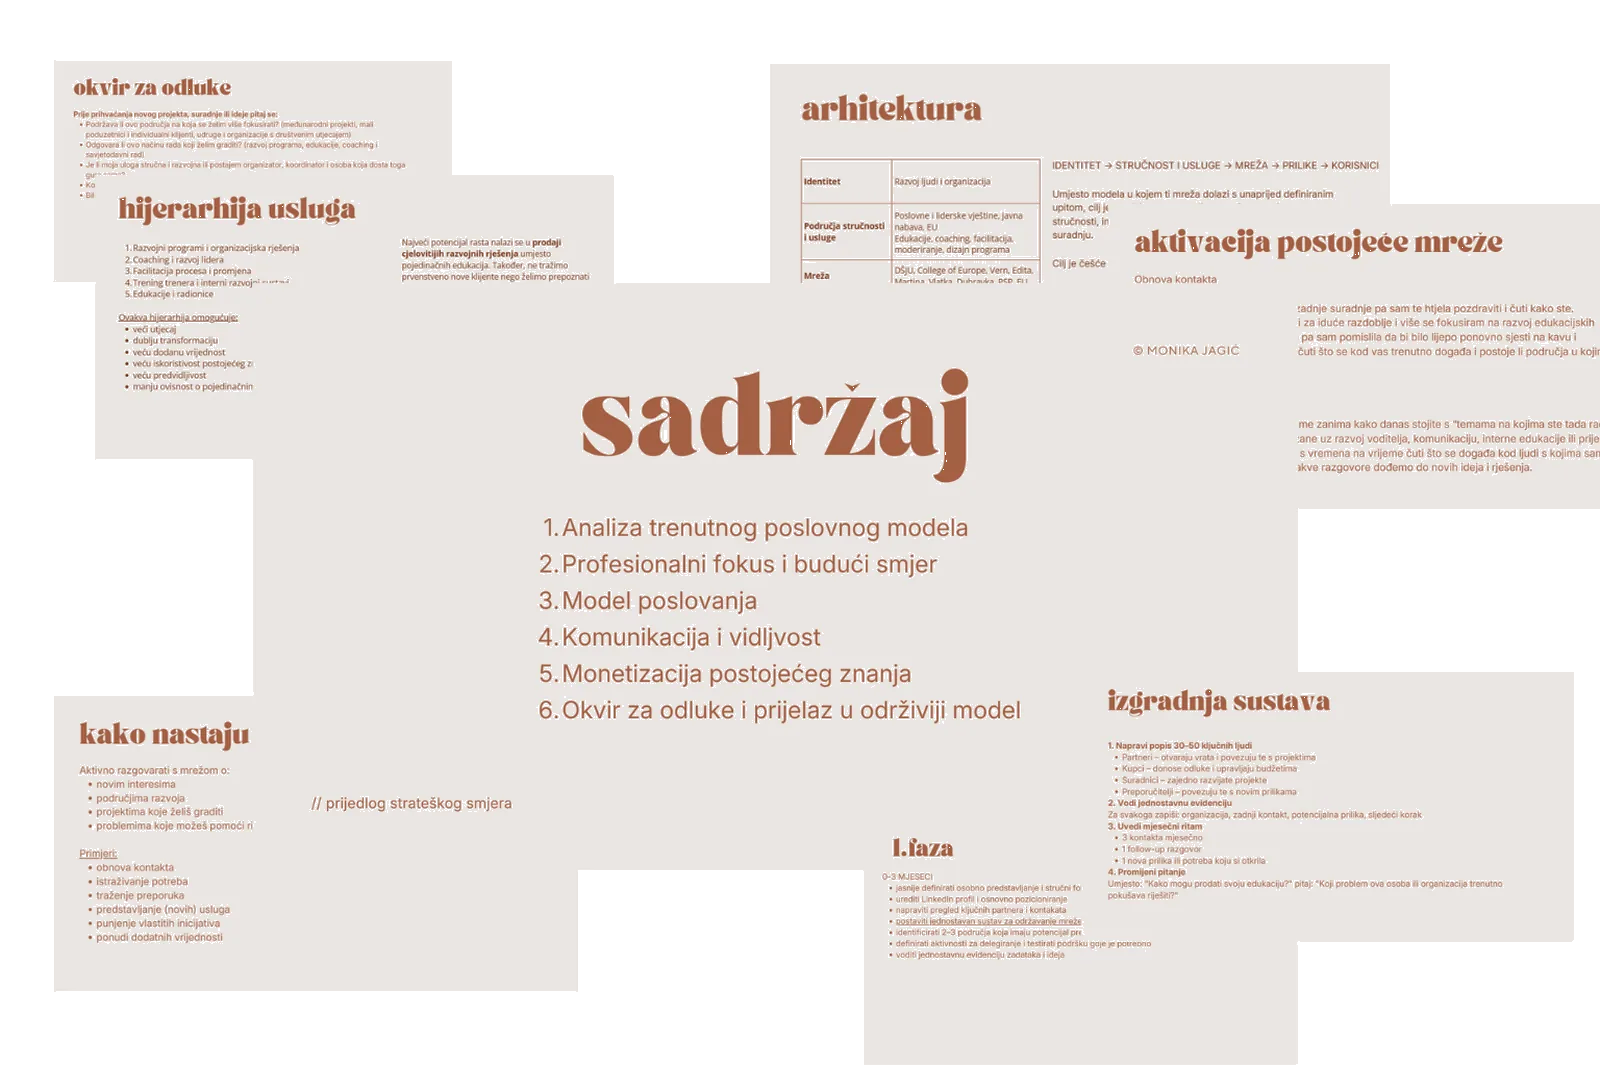
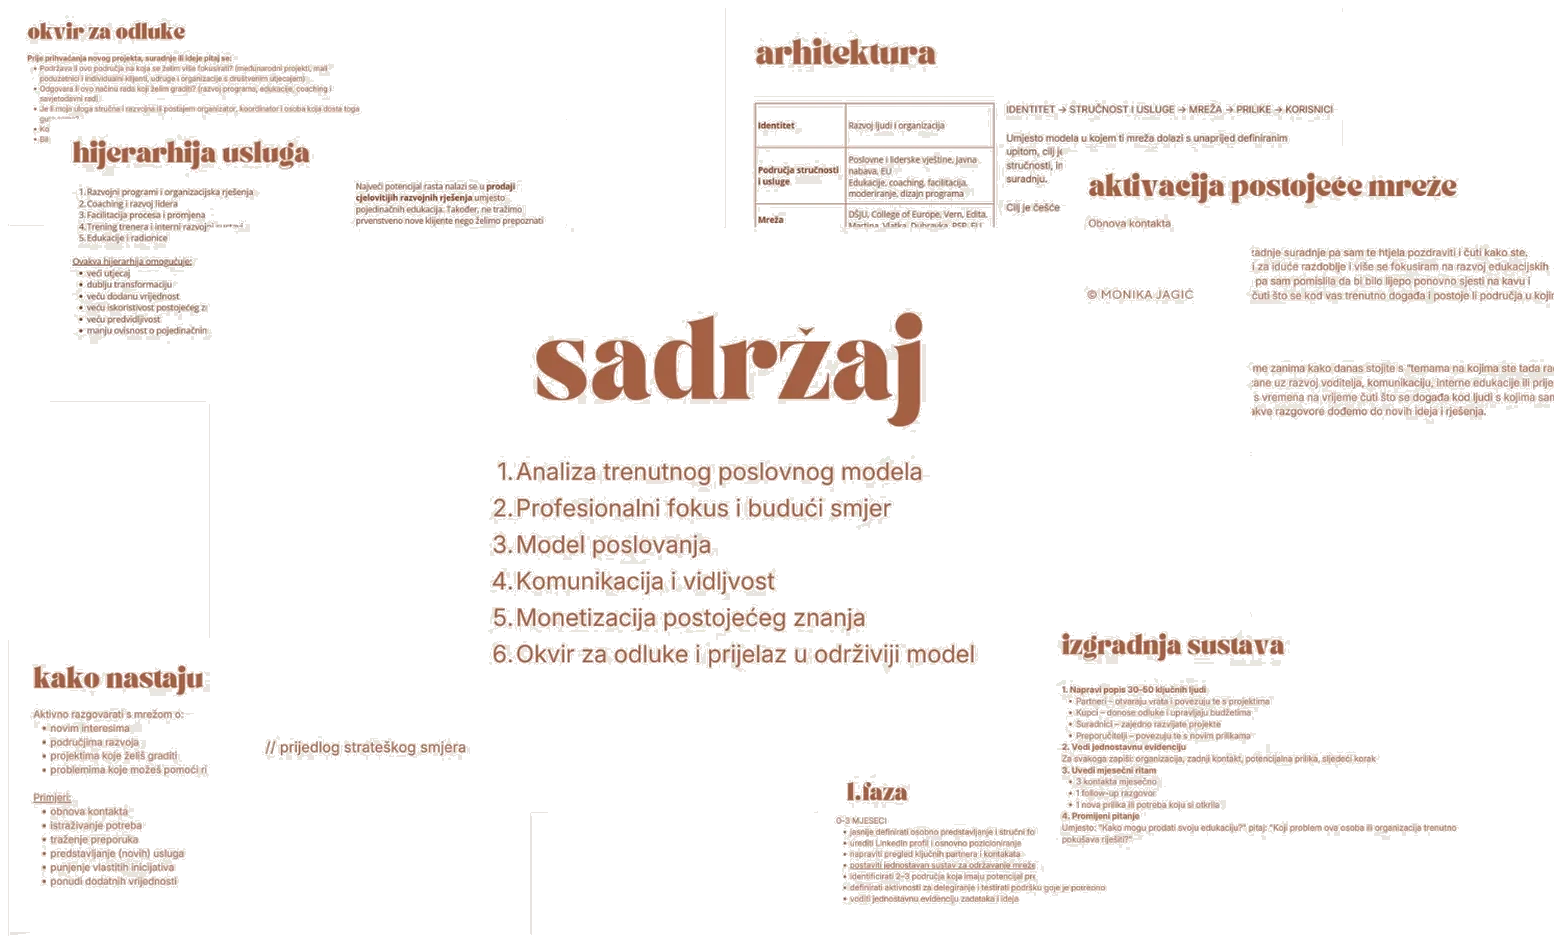
Tighten desktop hero crop and use true transparent collage.
Re-crop the desktop hero so the crown sits at the top edge under the
nav, and replace the strategy collage with the stash transparent cutout
(no cream plate) while keeping it flat and body-centered.

diff --git a/biznis-okvir/index.html b/biznis-okvir/index.html
@@ -27,7 +27,7 @@
       href="https://fonts.googleapis.com/css2?family=Inter:wght@400;500;600&display=swap"
       rel="stylesheet"
     />
-    <link rel="stylesheet" href="../css/main.css?v=bo-hero-fixes-1" />
+    <link rel="stylesheet" href="../css/main.css?v=bo-hero-fixes-2" />
     <script>
       document.documentElement.classList.add("js");
     </script>
@@ -252,18 +252,18 @@
                 <figure class="process__doc process__doc--collage">
                   <picture>
                     <source
-                      srcset="../assets/images/bo-strategy-collage.webp?v=nobg-2"
+                      srcset="../assets/images/bo-strategy-collage.webp?v=nobg-3"
                       type="image/webp"
                     />
                     <source
-                      srcset="../assets/images/bo-strategy-collage.png?v=nobg-2"
+                      srcset="../assets/images/bo-strategy-collage.png?v=nobg-3"
                       type="image/png"
                     />
                     <img
-                      src="../assets/images/bo-strategy-collage.png?v=nobg-2"
+                      src="../assets/images/bo-strategy-collage.png?v=nobg-3"
                       alt="Kolaž stranica iz strateškog dokumenta Biznis okvira — sadržaj, okvir za odluke, hijerarhija usluga, arhitektura i plan faza."
-                      width="1600"
-                      height="1066"
+                      width="1554"
+                      height="944"
                       loading="lazy"
                       decoding="async"
                     />

diff --git a/index.html b/index.html
@@ -27,7 +27,7 @@
       href="https://fonts.googleapis.com/css2?family=Inter:wght@400;500;600&display=swap"
       rel="stylesheet"
     />
-    <link rel="stylesheet" href="css/main.css?v=bo-hero-fixes-1" />
+    <link rel="stylesheet" href="css/main.css?v=bo-hero-fixes-2" />
     <script>
       document.documentElement.classList.add("js");
     </script>
@@ -83,12 +83,12 @@
           <picture class="hero__backdrop-fill">
             <source
               media="(min-width: 960px)"
-              srcset="assets/images/monika-hero-office-desktop.webp?v=head-top-2"
+              srcset="assets/images/monika-hero-office-desktop.webp?v=head-top-4"
               type="image/webp"
             />
             <source
               media="(min-width: 960px)"
-              srcset="assets/images/monika-hero-office-desktop.jpg?v=head-top-2"
+              srcset="assets/images/monika-hero-office-desktop.jpg?v=head-top-4"
               type="image/jpeg"
             />
             <source srcset="assets/images/monika-hero-office-v2.webp?v=dual-1" type="image/webp" />
